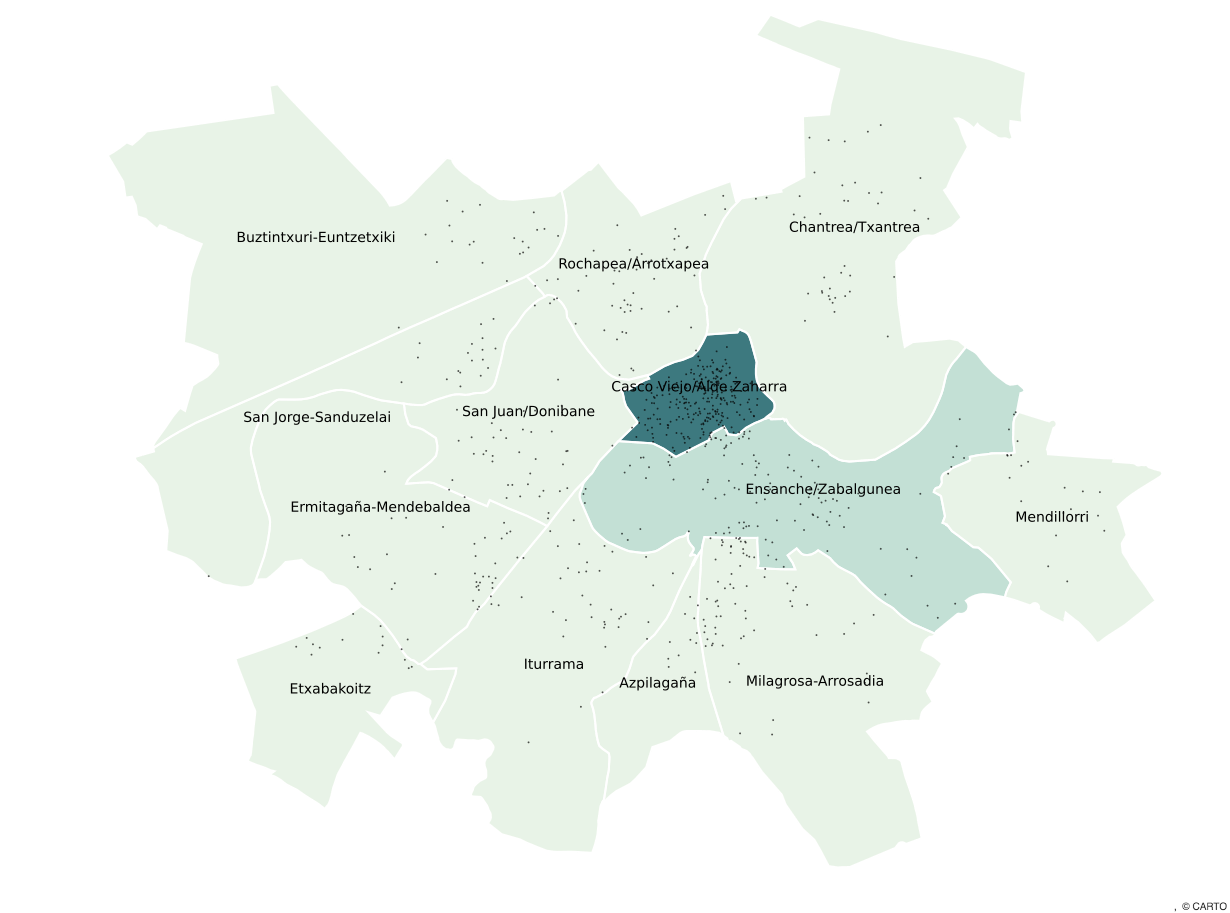
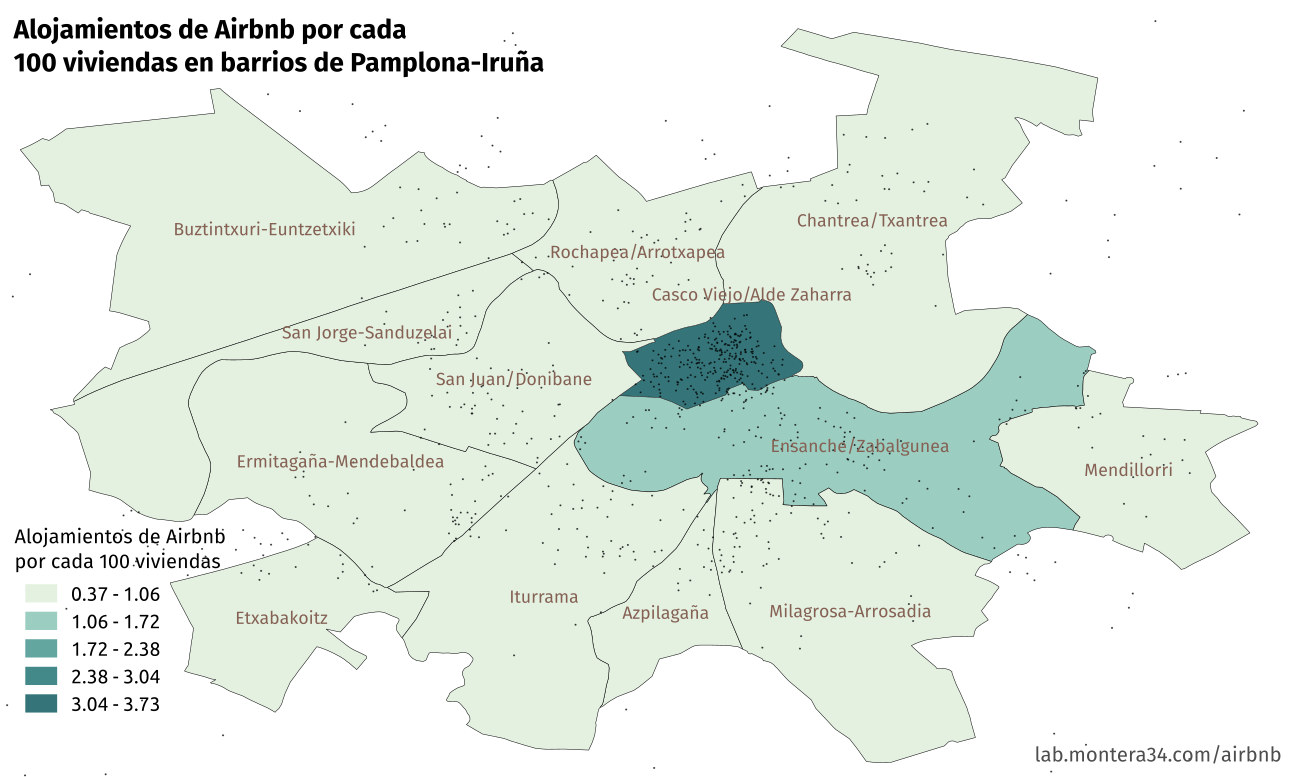
moves to top, updates pamplona ratios barrios map and adds caption

diff --git a/pamplona/index.html b/pamplona/index.html
@@ -259,6 +259,12 @@
 			</div>
 			<div class="clearfix"></div>
 			<div class="col-md-10 col-md-offset-1">
+					<p>En este mapa se muestran delimitados cada uno de los barrios. La escala de intensidades de color muestra la densidad de alojamientos de Airbnb por viviendas censadas en cada barrio.</p>
+				<figure><img class="img-responsive" alt="mapa de barrios de Pamplona con el ratio de alojamientos de Airbnb por cada 100 vivienas" src="images/pamplona.alojamientos.barrio.ratio.mapa.png" /></figure>
+				<figcaption><a href="caption https://orekari.carto.com/builder/e91fee3a-c442-43dd-b5b9-c33d84c82776/embed">Puedes ver el mapa en pantalla completa.</a>.</figcaption>
+			</div>
+			<div class="clearfix"></div>
+			<div class="col-md-10 col-md-offset-1">
 				<table class="table table-condensed table-hover">
 					<thead>
 						<tr><th>barrio</th><th class="text-right">viviendas completas / 100 viviendas</th><th class="text-right">habitaciones / 100 viviendas</th><th class="text-right">total</th></tr>
@@ -297,11 +303,6 @@
 			<div class="col-md-5">
 				<p>Para estudiar cómo se distribuye la oferta de Airbnb en ciudad vamos a estudiarla en relación al total de viviendas por cada barrio. En vez de mostrar y representar los números totales de anuncios de Airbnb por barrio mostramos los valores relativos respecto el total de viviendas. Esto nos permite comparar con un valor barrios de muy distintas características y densidades de viviendas.</p>
 				<p>Después del Casco Viejo estaría el Ensanche con 1,2 alojamientos por cada 100 viviendas, seguido por el barrio de La Milagrosa con 0,8 alojamientos. La densidad de alojamientos respecto a las viviendas en el resto de los barrios se encuentra entre un 0,4 y un 0,6.</p>
-				<p>En este mapa se muestran delimitados cada uno de los barrios. Mediante una degradación de colores se muestra la densidad de alojamientos por viviendas de cada barrio.</p>
-			</div>
-			<div class="clearfix"></div>
-			<div class="col-md-10 col-md-offset-1">
-				<figure><img class="img-responsive" src="images/pamplona.alojamientos.barrio.ratio.mapa.png" /></figure>
 			</div>
 		</div>
 		<div class="row vis-body">
